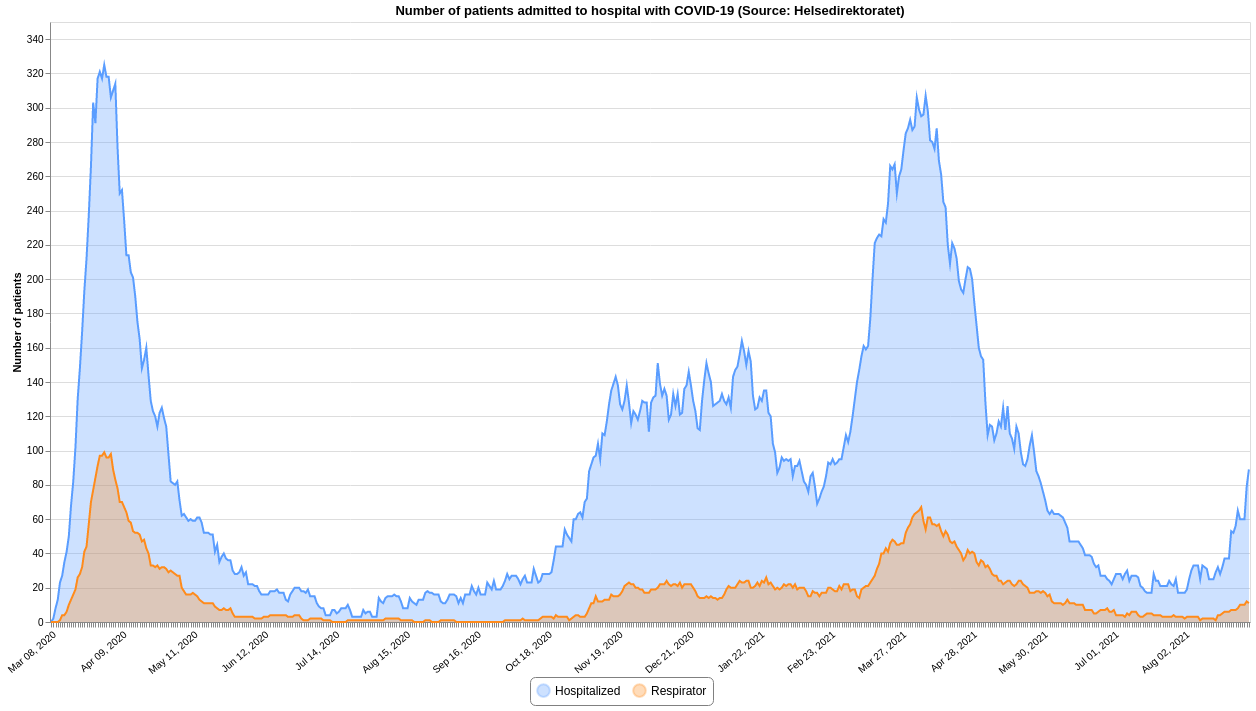
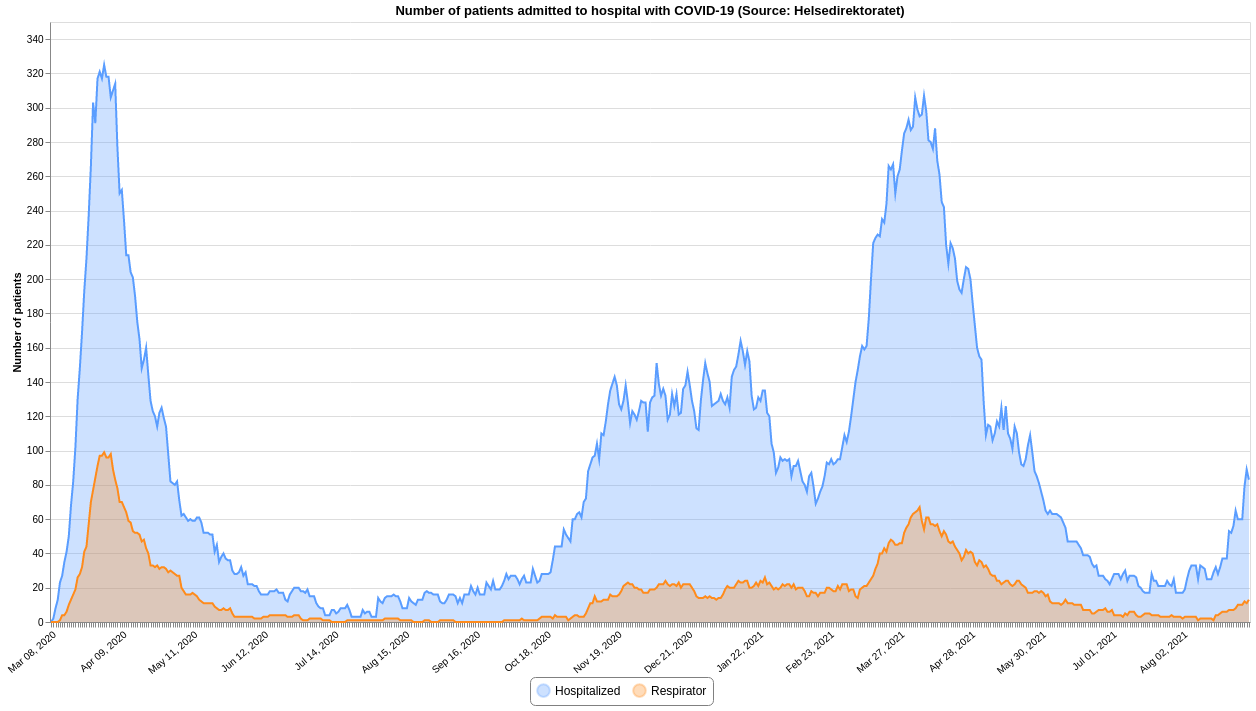
Updated 2021-09-01 11:51

diff --git a/README.md b/README.md
@@ -12,7 +12,7 @@ This repository contains datasets of daily time-series data related to COVID-19 
 | :--- | :--- | :--- | :--- | :--- |
 |[Confirmed](#confirmedcsv)|FHI / MSIS|2021-09-01 00:10:43+02:00|[<center>csv</center>](https://raw.githubusercontent.com/frefrik/covid19norge-data/main/data/confirmed.csv)|[<center>preview</center>](data/confirmed.csv)|
 |[Dead](#deadcsv)|FHI|2021-08-31 13:20:50+02:00|[<center>csv</center>](https://raw.githubusercontent.com/frefrik/covid19norge-data/main/data/dead.csv)|[<center>preview</center>](data/dead.csv)|
-|[Hospitalized](#hospitalizedcsv)|Helsedirektoratet|2021-08-31 12:50:49+02:00|[<center>csv</center>](https://raw.githubusercontent.com/frefrik/covid19norge-data/main/data/hospitalized.csv)|[<center>preview</center>](data/hospitalized.csv)|
+|[Hospitalized](#hospitalizedcsv)|Helsedirektoratet|2021-09-01 11:50:50+02:00|[<center>csv</center>](https://raw.githubusercontent.com/frefrik/covid19norge-data/main/data/hospitalized.csv)|[<center>preview</center>](data/hospitalized.csv)|
 |[Tested](#testedcsv)|FHI|2021-08-31 13:10:57+02:00|[<center>csv</center>](https://raw.githubusercontent.com/frefrik/covid19norge-data/main/data/tested.csv)|[<center>preview</center>](data/tested.csv)|
 |[Tested Lab](#tested_labcsv)|FHI|2021-08-31 13:20:45+02:00|[<center>csv</center>](https://raw.githubusercontent.com/frefrik/covid19norge-data/main/data/tested_lab.csv)|[<center>preview</center>](data/tested_lab.csv)|
 |[Transport](#transportcsv)|FHI|2021-08-31 09:10:53+02:00|[<center>csv</center>](https://raw.githubusercontent.com/frefrik/covid19norge-data/main/data/transport.csv)|[<center>preview</center>](data/transport.csv)|
